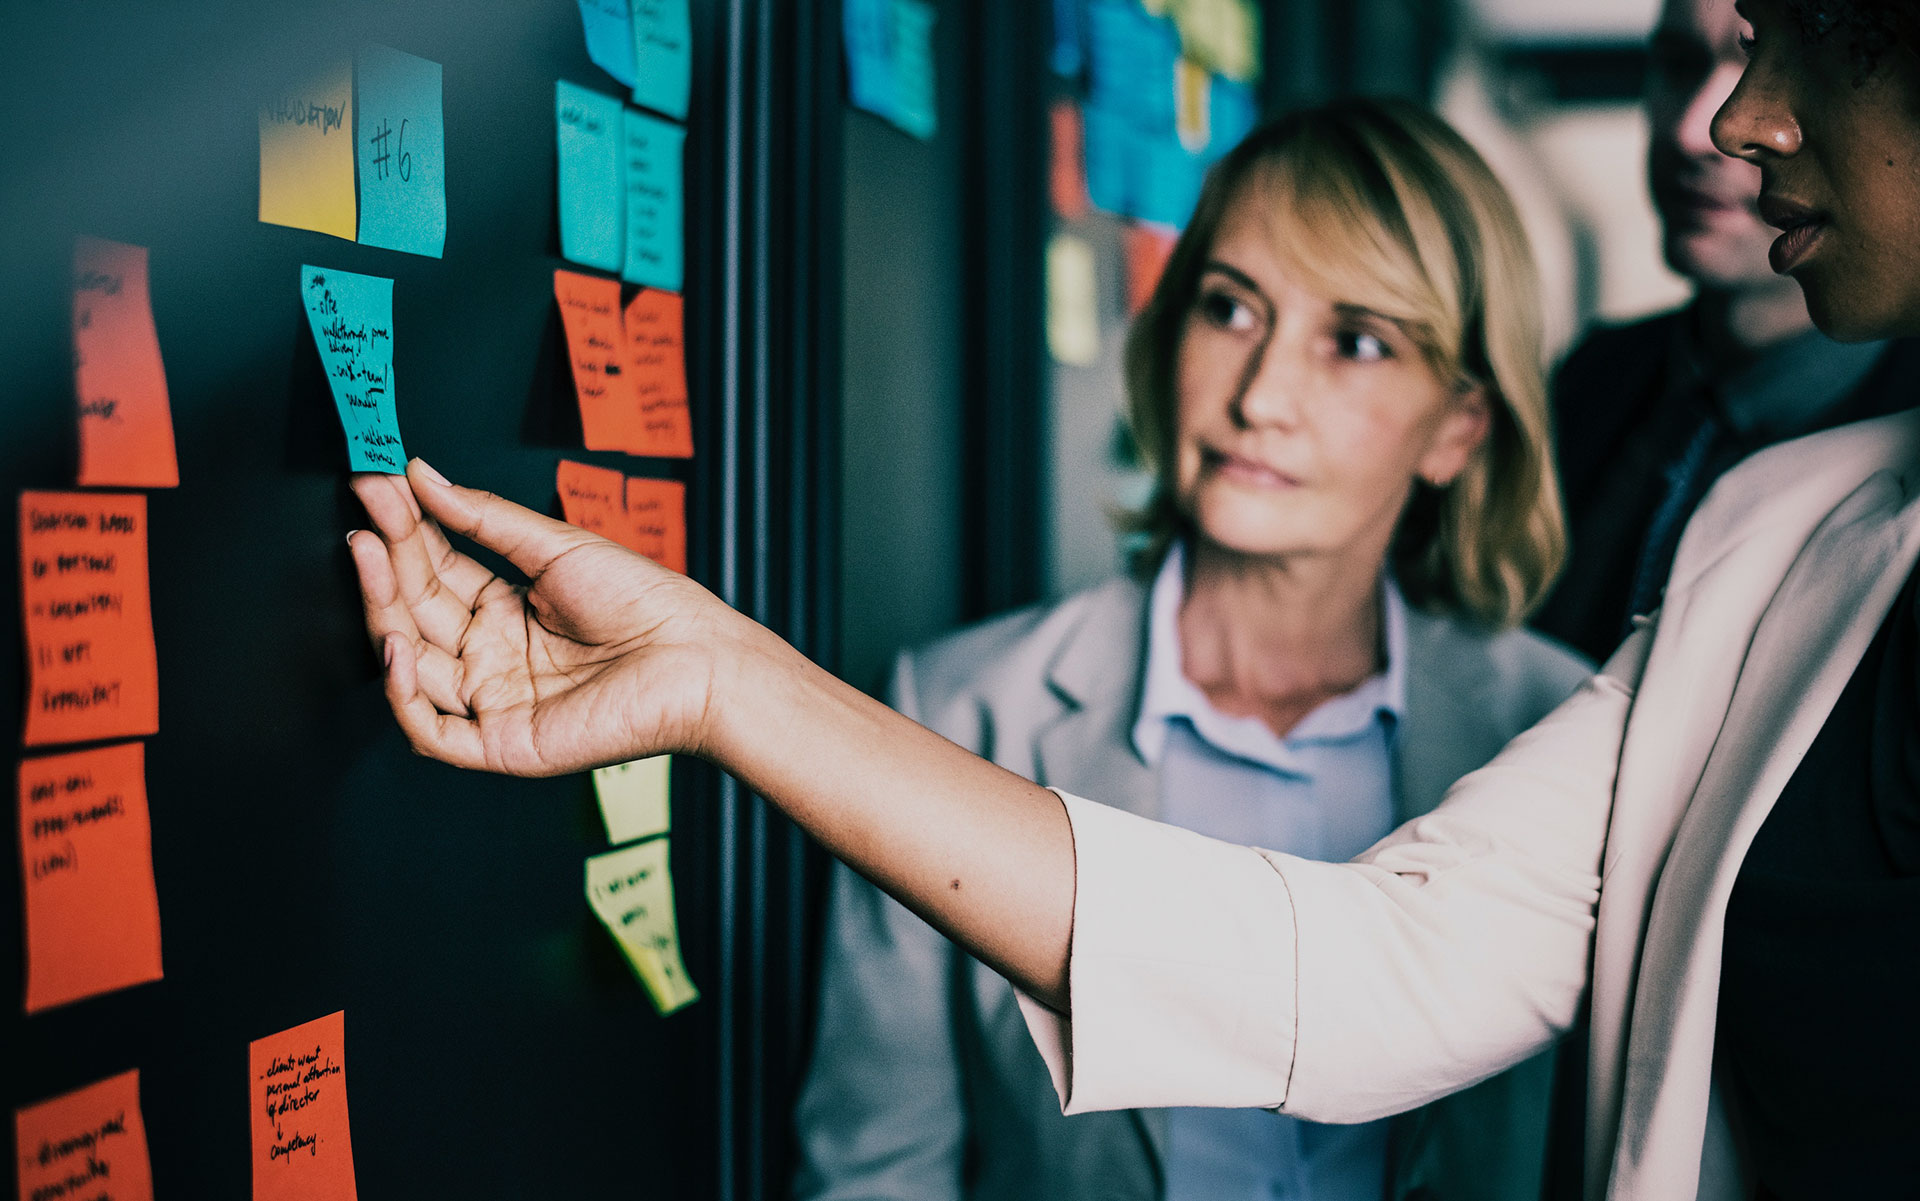
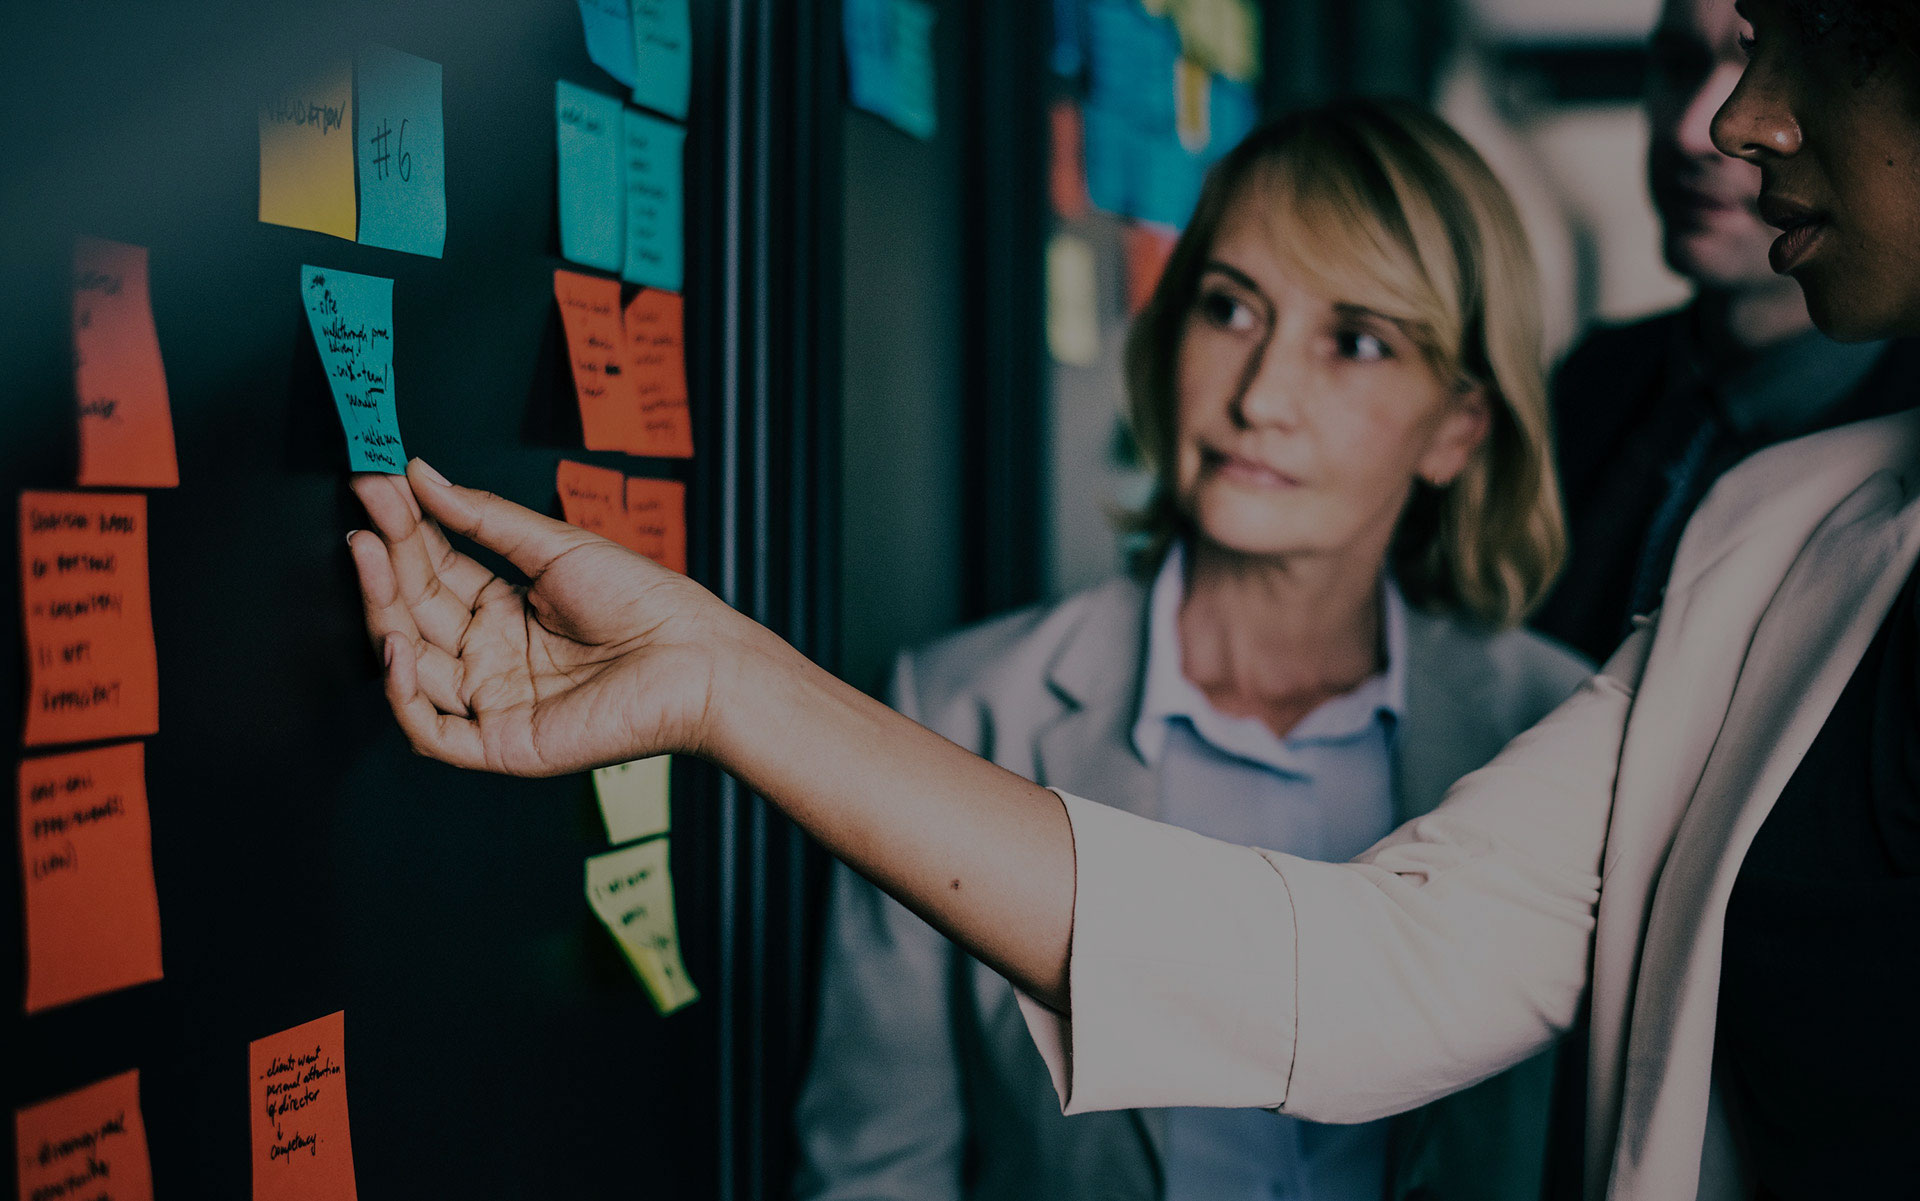
상세페이지 헤더 레이아웃 수정

diff --git a/css/custom.css b/css/custom.css
@@ -103,31 +103,39 @@ img{width:100%;}
 .post-preview_date{
     font-size: 1.75rem;
     margin-right: 0.5rem;
-    color:gray;
+    color: gray;
 }
 .author{
     font-size: 1.65rem;
     /*margin-left:1.5rem;*/
-    color:gray;
+    color:#fff;
 }
 .post-preview>a>.post-title{
     margin-top: .5rem;  
 }
 /*post*/
+.intro-header.post-header {
+    height: auto;
+    border-bottom: none;
+    padding: 6rem 0;
+}
 .post-header.intro-header .container .row{
     align-items: flex-end!important; 
     width:100%
 } 
 .intro-header.post-header .post-heading{
     padding: 4rem 3rem 3rem 3rem;
-    background-color: white;  
+    background-color: transparent;  
     text-align: center; 
 }
 .intro-header.post-header .post-heading h1{
-    color:#404040;
+    color:#fff;
+}
+.intro-header.post-header .post-heading .post-preview_date{
+    color: #fff;
 }
 .intro-header.post-header .post-heading .subheading{
-    color:#404040;
+    color:#fff;
     margin: 15px 0;
 }
 .intro-header.post-header .post-heading h1{
@@ -257,17 +265,17 @@ img{width:100%;}
 }  
 .intro-header.post-header .post-heading{
     padding: 4rem 3rem 3rem 3rem;
-    background-color: white;  
+    background-color: transparent;  
     text-align: center;  
 }
 .intro-header.post-header .post-heading h1{
-    color:#404040;
+    color:#fff;
 }
 .intro-header.post-header .post-heading .subheading{
-    color:#404040;
+    color:#fff;
 }
 .intro-header.post-header .post-heading h1{
-    font-size:3.5rem;
+    font-size:5rem;
 }
 
 .content-line{

diff --git a/post/salesforce/soql08/index.html b/post/salesforce/soql08/index.html
@@ -84,17 +84,17 @@
 
     
     
-    <header class="post-header intro-header " style="background-image: url('https://DKBMC-Official.github.io//img/post-bg2-1.jpg');height:35rem;border-bottom: none;">
+    <header class="post-header intro-header " style="background-image: url('https://DKBMC-Official.github.io//img/post-bg2-1.jpg');">
       
       <div class="container">
         <div class="row">
            <div class="col-lg-10 col-md-10">
              <div class="post-heading">
                <h1>SOQL 기본문법(08)</h1>
-               <h2 class="subheading" style="font-weight:200;font-size:1.85rem;">Date Functions (날짜 함수)</h2>
+               <h2 class="subheading" style="font-weight:200;font-size:2.25rem;">Date Functions (날짜 함수)</h2>
                <hr class="small" style="border-color: #0085a1;"/>
                <span class="post-preview_date"><b>Tue, May 28, 2019</b></span>
-               <span style="color:#333;font-size: 1.65rem;">written by</span>
+               <span style="color:#fff;font-size: 1.65rem;">written by</span>
                 <a href="#" class="author">
                 <span>Yong-Jin</span>
                 </a>

diff --git a/post/salesforce/soql07/index.html b/post/salesforce/soql07/index.html
@@ -84,17 +84,17 @@
 
     
     
-    <header class="post-header intro-header " style="background-image: url('https://DKBMC-Official.github.io//img/post-bg2-1.jpg');height:35rem;border-bottom: none;">
+    <header class="post-header intro-header " style="background-image: url('https://DKBMC-Official.github.io//img/post-bg2-1.jpg');">
       
       <div class="container">
         <div class="row">
            <div class="col-lg-10 col-md-10">
              <div class="post-heading">
                <h1>SOQL 기본문법(07)</h1>
-               <h2 class="subheading" style="font-weight:200;font-size:1.85rem;">Aggregate Functions</h2>
+               <h2 class="subheading" style="font-weight:200;font-size:2.25rem;">Aggregate Functions</h2>
                <hr class="small" style="border-color: #0085a1;"/>
                <span class="post-preview_date"><b>Tue, May 28, 2019</b></span>
-               <span style="color:#333;font-size: 1.65rem;">written by</span>
+               <span style="color:#fff;font-size: 1.65rem;">written by</span>
                 <a href="#" class="author">
                 <span>Yong-Jin</span>
                 </a>

diff --git a/post/salesforce/soql04/index.html b/post/salesforce/soql04/index.html
@@ -84,17 +84,17 @@
 
     
     
-    <header class="post-header intro-header " style="background-image: url('https://DKBMC-Official.github.io//img/post-bg2-1.jpg');height:35rem;border-bottom: none;">
+    <header class="post-header intro-header " style="background-image: url('https://DKBMC-Official.github.io//img/post-bg2-1.jpg');">
       
       <div class="container">
         <div class="row">
            <div class="col-lg-10 col-md-10">
              <div class="post-heading">
                <h1>SOQL 기본문법(04)</h1>
-               <h2 class="subheading" style="font-weight:200;font-size:1.85rem;">범위 사용</h2>
+               <h2 class="subheading" style="font-weight:200;font-size:2.25rem;">범위 사용</h2>
                <hr class="small" style="border-color: #0085a1;"/>
                <span class="post-preview_date"><b>Mon, May 27, 2019</b></span>
-               <span style="color:#333;font-size: 1.65rem;">written by</span>
+               <span style="color:#fff;font-size: 1.65rem;">written by</span>
                 <a href="#" class="author">
                 <span>Yong-Jin</span>
                 </a>

diff --git a/post/salesforce/soql05/index.html b/post/salesforce/soql05/index.html
@@ -84,17 +84,17 @@
 
     
     
-    <header class="post-header intro-header " style="background-image: url('https://DKBMC-Official.github.io//img/post-bg2-1.jpg');height:35rem;border-bottom: none;">
+    <header class="post-header intro-header " style="background-image: url('https://DKBMC-Official.github.io//img/post-bg2-1.jpg');">
       
       <div class="container">
         <div class="row">
            <div class="col-lg-10 col-md-10">
              <div class="post-heading">
                <h1>SOQL 기본문법(05)</h1>
-               <h2 class="subheading" style="font-weight:200;font-size:1.85rem;">GROUP BY</h2>
+               <h2 class="subheading" style="font-weight:200;font-size:2.25rem;">GROUP BY</h2>
                <hr class="small" style="border-color: #0085a1;"/>
                <span class="post-preview_date"><b>Mon, May 27, 2019</b></span>
-               <span style="color:#333;font-size: 1.65rem;">written by</span>
+               <span style="color:#fff;font-size: 1.65rem;">written by</span>
                 <a href="#" class="author">
                 <span>Yong-Jin</span>
                 </a>

diff --git a/post/salesforce/soql03/index.html b/post/salesforce/soql03/index.html
@@ -84,17 +84,17 @@
 
     
     
-    <header class="post-header intro-header " style="background-image: url('https://DKBMC-Official.github.io//img/post-bg2-1.jpg');height:35rem;border-bottom: none;">
+    <header class="post-header intro-header " style="background-image: url('https://DKBMC-Official.github.io//img/post-bg2-1.jpg');">
       
       <div class="container">
         <div class="row">
            <div class="col-lg-10 col-md-10">
              <div class="post-heading">
                <h1>SOQL 기본문법(03)</h1>
-               <h2 class="subheading" style="font-weight:200;font-size:1.85rem;">날짜</h2>
+               <h2 class="subheading" style="font-weight:200;font-size:2.25rem;">날짜</h2>
                <hr class="small" style="border-color: #0085a1;"/>
                <span class="post-preview_date"><b>Mon, May 27, 2019</b></span>
-               <span style="color:#333;font-size: 1.65rem;">written by</span>
+               <span style="color:#fff;font-size: 1.65rem;">written by</span>
                 <a href="#" class="author">
                 <span>Yong-Jin</span>
                 </a>

diff --git a/post/salesforce/soql06/index.html b/post/salesforce/soql06/index.html
@@ -84,17 +84,17 @@
 
     
     
-    <header class="post-header intro-header " style="background-image: url('https://DKBMC-Official.github.io//img/post-bg2-1.jpg');height:35rem;border-bottom: none;">
+    <header class="post-header intro-header " style="background-image: url('https://DKBMC-Official.github.io//img/post-bg2-1.jpg');">
       
       <div class="container">
         <div class="row">
            <div class="col-lg-10 col-md-10">
              <div class="post-heading">
                <h1>SOQL 기본문법(06)</h1>
-               <h2 class="subheading" style="font-weight:200;font-size:1.85rem;">HAVING</h2>
+               <h2 class="subheading" style="font-weight:200;font-size:2.25rem;">HAVING</h2>
                <hr class="small" style="border-color: #0085a1;"/>
                <span class="post-preview_date"><b>Tue, May 28, 2019</b></span>
-               <span style="color:#333;font-size: 1.65rem;">written by</span>
+               <span style="color:#fff;font-size: 1.65rem;">written by</span>
                 <a href="#" class="author">
                 <span>Yong-Jin</span>
                 </a>

diff --git a/post/salesforce/soql01/index.html b/post/salesforce/soql01/index.html
@@ -84,17 +84,17 @@
 
     
     
-    <header class="post-header intro-header " style="background-image: url('https://DKBMC-Official.github.io//img/post-bg2-1.jpg');height:35rem;border-bottom: none;">
+    <header class="post-header intro-header " style="background-image: url('https://DKBMC-Official.github.io//img/post-bg2-1.jpg');">
       
       <div class="container">
         <div class="row">
            <div class="col-lg-10 col-md-10">
              <div class="post-heading">
                <h1>SOQL 기본문법(01)</h1>
-               <h2 class="subheading" style="font-weight:200;font-size:1.85rem;"></h2>
+               <h2 class="subheading" style="font-weight:200;font-size:2.25rem;"></h2>
                <hr class="small" style="border-color: #0085a1;"/>
                <span class="post-preview_date"><b>Fri, May 24, 2019</b></span>
-               <span style="color:#333;font-size: 1.65rem;">written by</span>
+               <span style="color:#fff;font-size: 1.65rem;">written by</span>
                 <a href="#" class="author">
                 <span>Yong-Jin</span>
                 </a>

diff --git a/post/salesforce/soql02/index.html b/post/salesforce/soql02/index.html
@@ -84,17 +84,17 @@
 
     
     
-    <header class="post-header intro-header " style="background-image: url('https://DKBMC-Official.github.io//img/post-bg2-1.jpg');height:35rem;border-bottom: none;">
+    <header class="post-header intro-header " style="background-image: url('https://DKBMC-Official.github.io//img/post-bg2-1.jpg');">
       
       <div class="container">
         <div class="row">
            <div class="col-lg-10 col-md-10">
              <div class="post-heading">
                <h1>SOQL 기본문법(02)</h1>
-               <h2 class="subheading" style="font-weight:200;font-size:1.85rem;"></h2>
+               <h2 class="subheading" style="font-weight:200;font-size:2.25rem;"></h2>
                <hr class="small" style="border-color: #0085a1;"/>
                <span class="post-preview_date"><b>Fri, May 24, 2019</b></span>
-               <span style="color:#333;font-size: 1.65rem;">written by</span>
+               <span style="color:#fff;font-size: 1.65rem;">written by</span>
                 <a href="#" class="author">
                 <span>Yong-Jin</span>
                 </a>

diff --git a/categories/soql/index.html b/categories/soql/index.html
@@ -85,7 +85,7 @@
     </nav>
 
     
-    <header class="intro-header post-header" style="background-image: url('https://DKBMC-Official.github.io//img/home-bg.jpg');height:35rem;border-bottom: none;">
+    <header class="intro-header post-header" style="background-image: url('https://DKBMC-Official.github.io//img/home-bg.jpg');">
     
      <div class="container">
         <div class="row" >

diff --git a/categories/soql/page/2/index.html b/categories/soql/page/2/index.html
@@ -85,7 +85,7 @@
     </nav>
 
     
-    <header class="intro-header post-header" style="background-image: url('https://DKBMC-Official.github.io//img/home-bg.jpg');height:35rem;border-bottom: none;">
+    <header class="intro-header post-header" style="background-image: url('https://DKBMC-Official.github.io//img/home-bg.jpg');">
     
      <div class="container">
         <div class="row" >

diff --git a/categories/soql/page/3/index.html b/categories/soql/page/3/index.html
@@ -85,7 +85,7 @@
     </nav>
 
     
-    <header class="intro-header post-header" style="background-image: url('https://DKBMC-Official.github.io//img/home-bg.jpg');height:35rem;border-bottom: none;">
+    <header class="intro-header post-header" style="background-image: url('https://DKBMC-Official.github.io//img/home-bg.jpg');">
     
      <div class="container">
         <div class="row" >
